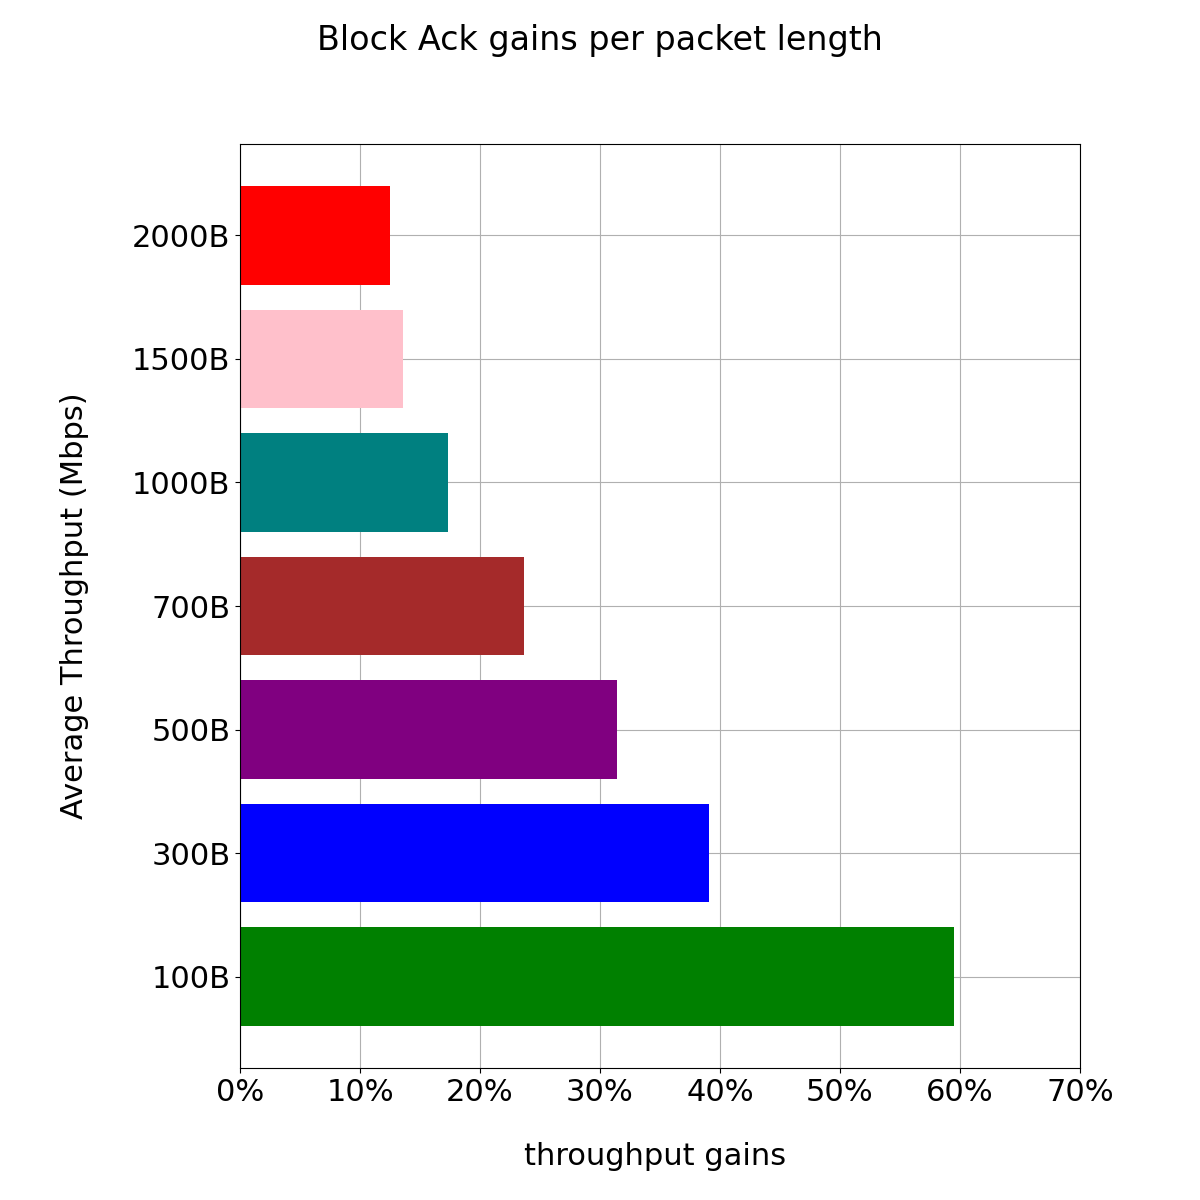
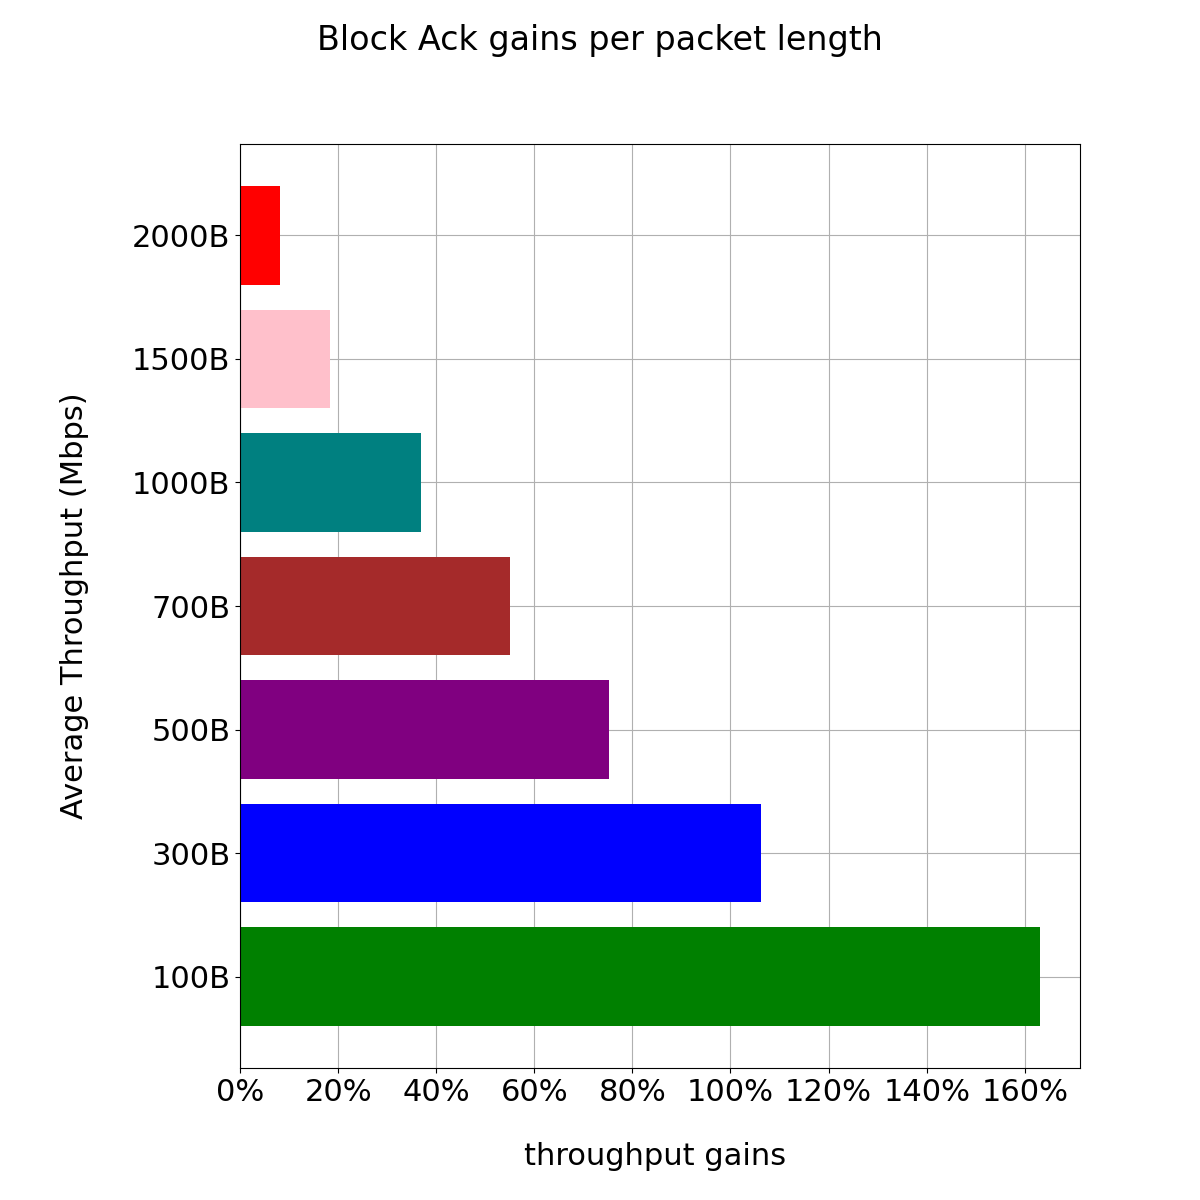
graphs updated

diff --git a/prog2.py b/prog2.py
@@ -87,7 +87,7 @@ colors = ['green', 'blue', 'purple',
             'brown', 'teal', 'pink', 'red']
 plt.grid()
 plt.barh(ind,gains, color = colors)
-plot.set_xticks([*range(0,80,10)], ["0%","10%","20%","30%","40%","50%","60%","70%"])
+plot.set_xticks([*range(0,180,20)], ["0%","20%","40%","60%","80%","100%","120%","140%","160%"])
 plot.set_yticks(ind, NAMES2)
 plot.set_axisbelow(True)
 
@@ -98,3 +98,4 @@ plot.yaxis.set_label_coords(-0.18, 0.5)
 
 figure.savefig("./BlockAckGains.png")
 plt.close(figure)
+print(gains)
